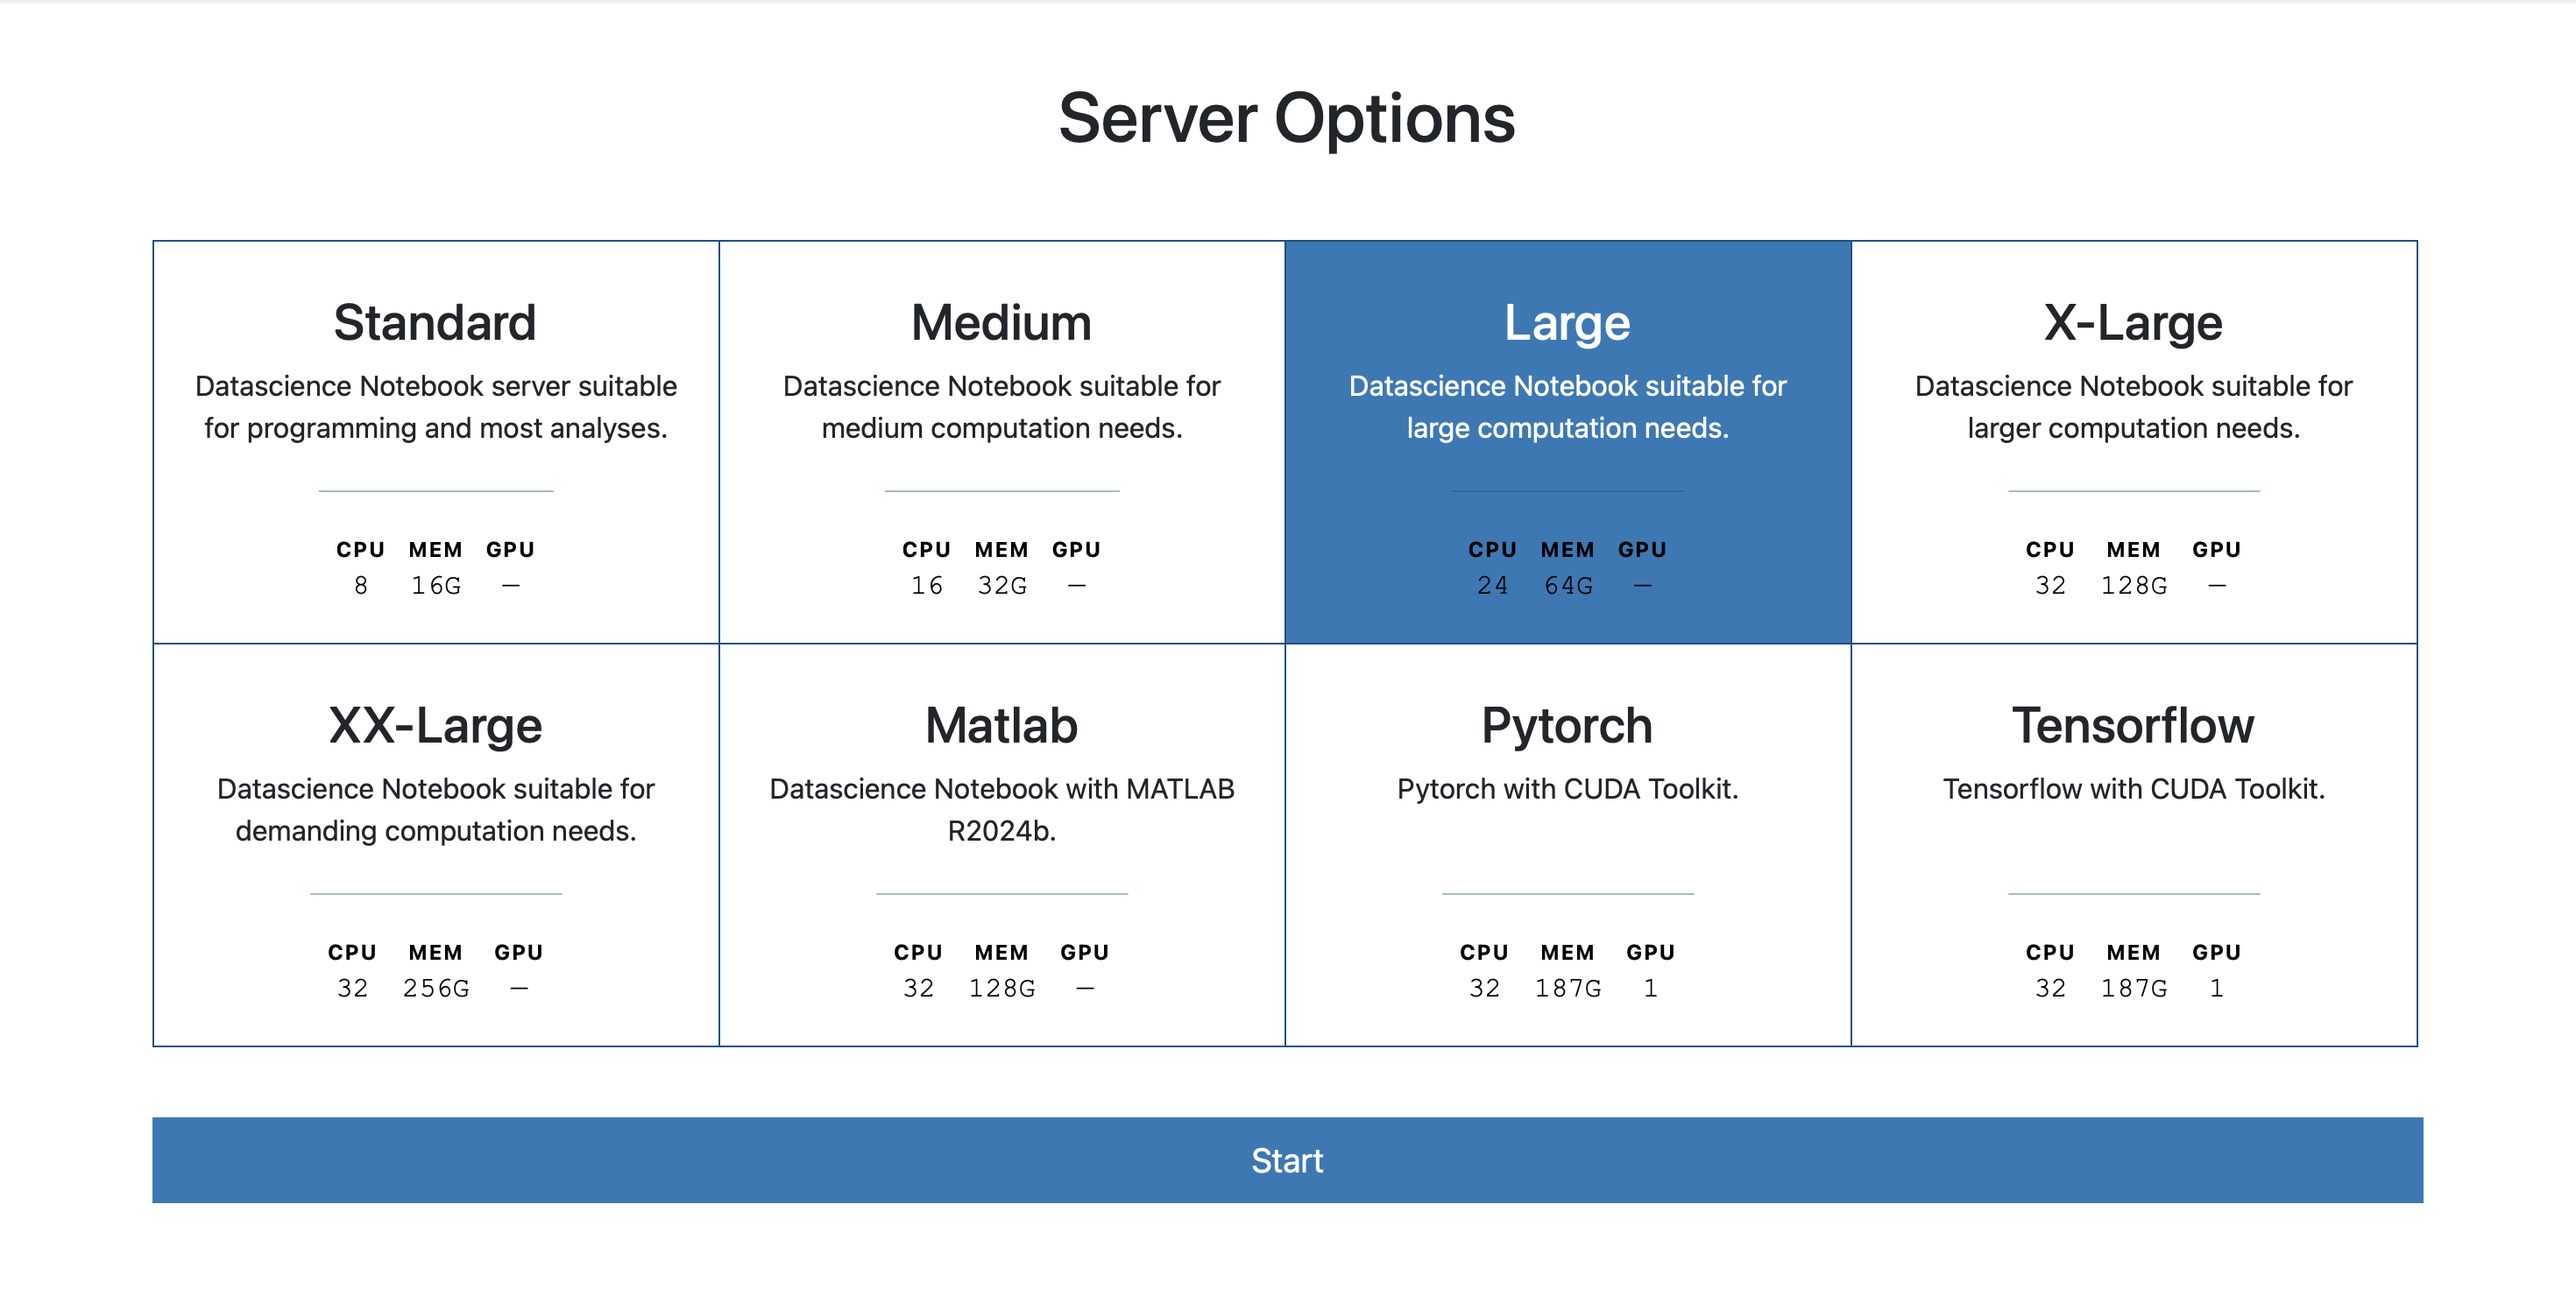
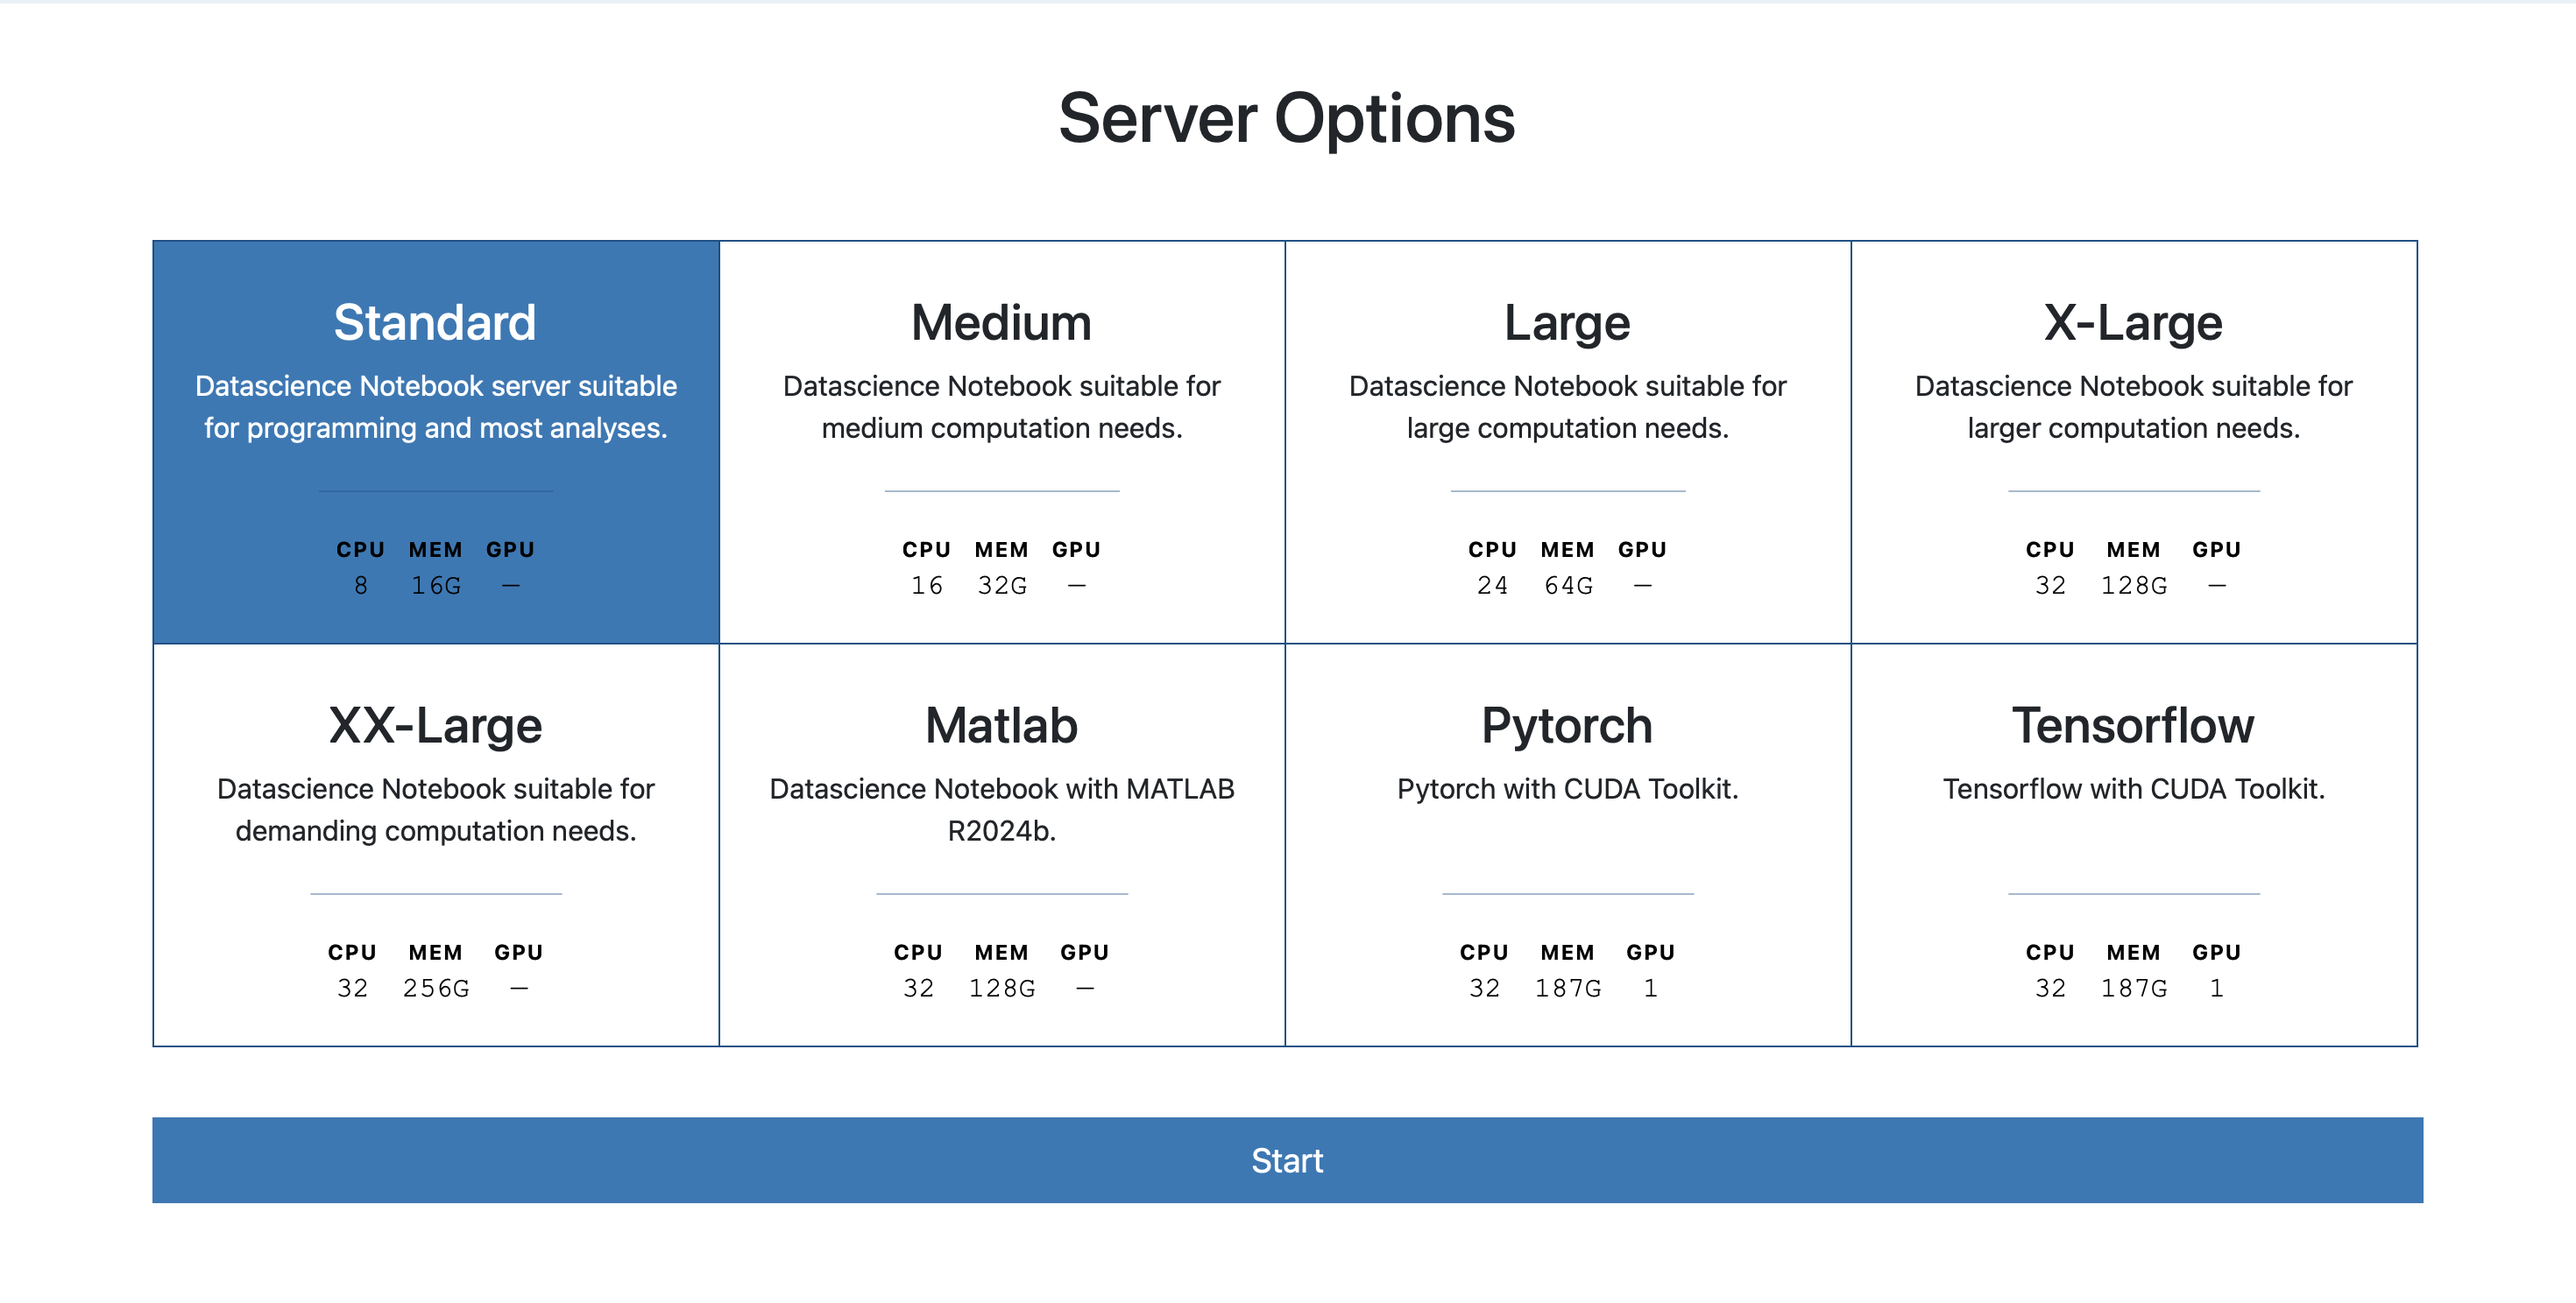
edited text to remove too much info

Changed region(s): [[0.4952, 0.1855, 0.7429, 0.4946], [0.0619, 0.1855, 0.2786, 0.4946]]

diff --git a/docs/day01_ooi_jhub_setup.md b/docs/day01_ooi_jhub_setup.md
@@ -8,10 +8,6 @@ Additional information on JupyterHub and JupyterLab can be found online:
 - [JupyterHub](https://jupyterhub.readthedocs.io/en/latest/)
 - [JupyterLab](https://jupyterlab.readthedocs.io/en/latest/)
 
-If you haven’t already, request access to the JupyterHub via from the link on the login page. This will open an email that you can use to make the request. Please provide your name, the institution or program you are working with, an email address to assign to the account (see further information below), and a brief description of how you plan on using the data. 
-
-The email account you provide when applying for access will be used to create an account for you on the JupyterHub. OOI uses [CILogon](https://cilogon.org/) to manage access to the JupyterHub (we do not maintain a database of access credentials, rather a listing of allowed users), so you need to provide an email account that is linked to a known identity provider (e.g., your home organization).
-
 You can login to the hub at https://jupyter.oceanobservatories.org using [CILogon](https://cilogon.org/) (Figure 1) with your email account and the appropriate identity provider (use the drop-down menu in Figure 2, select your institution, and Log In). You will need to login using your home organization’s credential system. Again, OOI will not store this information and has no access to it or control over it, instead the JupyterHub will use cookies set by [CILogon](https://cilogon.org/) after you are authenticated to grant access if the account is in the allowed listing.
 
 <table style="width:100%">
@@ -31,13 +27,11 @@ You can login to the hub at https://jupyter.oceanobservatories.org using [CILogo
   </tr>
 </table>
 
-The next step is to choose the server size and type (Figure 3). For most applications, a “Large” server will suffice. However, if you are planning on processing large volumes of data, then you are encouraged to select the “X-Large” or “XX-Large” servers. Newer servers, using the Nvidia GPUs have been added for individuals interested in processing large volumes of data for modelling or machine learning applications using PyTorch or TensorFlow.
+The next step is to choose the server size and type (Figure 3). For this summer school, a “Standard” server will suffice. 
 
 <figure>
   <img src="/imgs/jhub_server_sizes.png" alt="OOI JupyterHub server sizes" width="500"/>
-  <figcaption><em>Figure 3. Selection of the server type and size. Most users will want to select a “Large”, “X-Large” or “XX-Large” server (MATLAB users will
-want to select “MATLAB – Medium”. Individuals looking to explore the use of GPUs for modeling or machine learning applications will
-want to select one of the Nvidia GPU servers.</em></figcaption>
+  <figcaption><em>Figure 3. Selection of the server type and size.</em></figcaption>
 </figure>
 
 For these instructions, we're going to use `conda` as our package and environment manager. 
